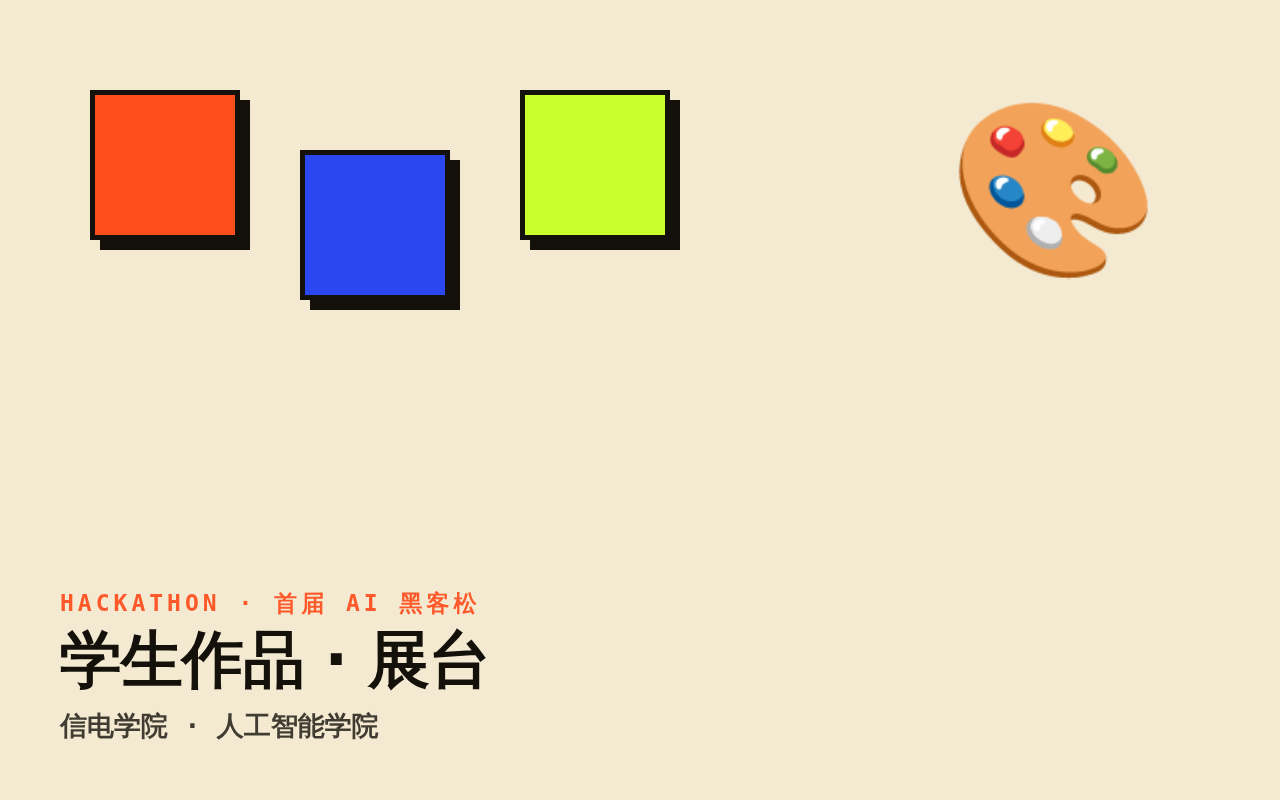
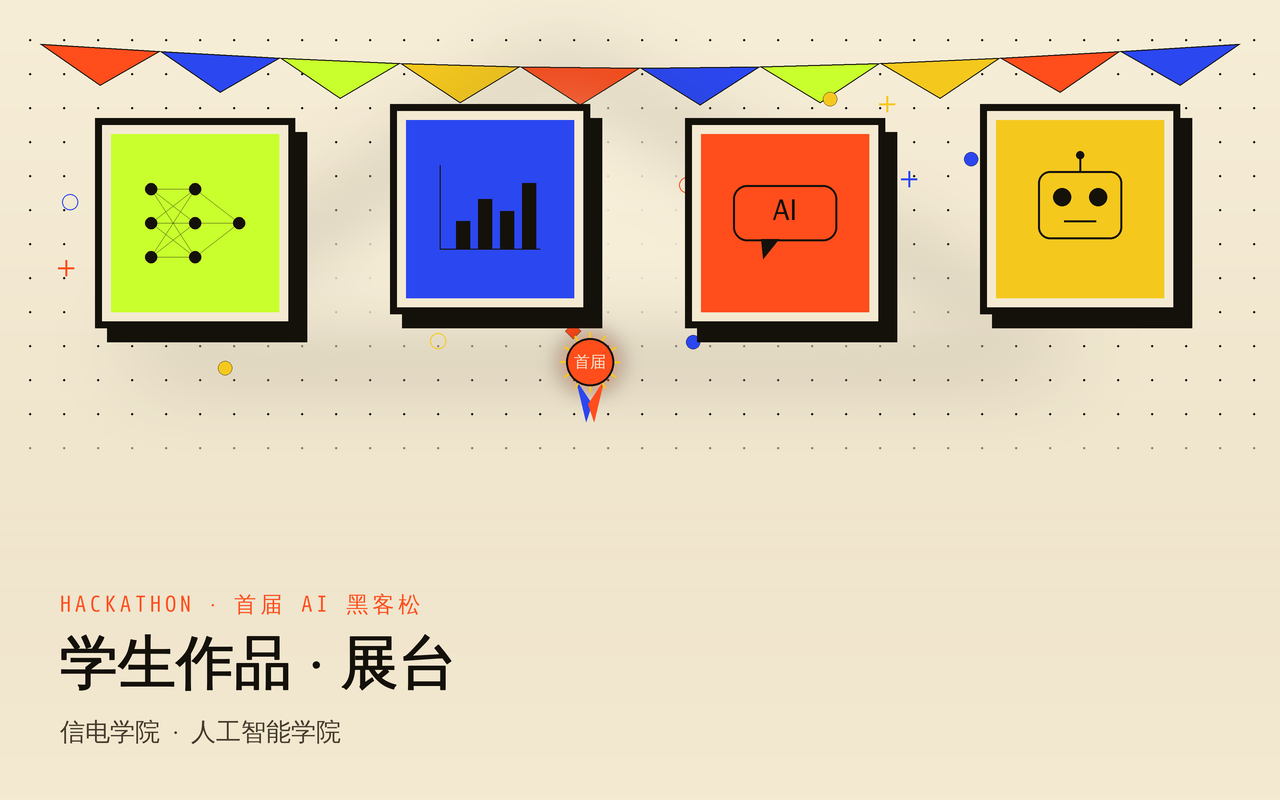
feat(covers): refine hackathon + virtual-house cover art
Extend tools/covers.py with two more detailed vector scenes:
- 黑客松作品展 — neo-brutalist exhibition wall matching the site style:
  bunting, four framed AI exhibits (neural net / chart / chat / robot)
  with hard borders + offset shadows, a 首届 award rosette, memphis
  confetti, spotlight; light paper ground with dark meta text.
- 虚拟看房 — one-point-perspective show-room: sunset window with
  mullions + light shaft, sofa, coffee table on a rug, glowing floor
  lamp, pendant light, wall art, potted plant, perspective floorboards.

meta() gains a title_shadow opt so light-ground covers skip the dark blur.

Claude-Session: https://claude.ai/code/session_01Vqdax58ZXuy3TTjSUvNNA6

Changed region(s): [[0.0312, 0.0312, 0.9688, 0.5312], [0.0312, 0.7188, 0.375, 0.9375]]

diff --git a/tools/covers.py b/tools/covers.py
@@ -93,7 +93,7 @@ def text_track(d, x, y, s, fnt, fill, track=0):
         x += d.textlength(ch, font=fnt) + track * S
     return x
 
-def meta(img, tag, tag_color, title, meter_segs, title_color=(247, 245, 240)):
+def meta(img, tag, tag_color, title, meter_segs, title_color=(247, 245, 240), title_shadow=(0, 0, 0, 165)):
     tagf, titf, mtrf = F(22, mono=True), F(58), F(25, mono=True)
     a1, d1 = titf.getmetrics(); tit_h = a1 + d1
     tag_h = sum(tagf.getmetrics())
@@ -106,11 +106,12 @@ def meta(img, tag, tag_color, title, meter_segs, title_color=(247, 245, 240)):
     text_track(d, x0, y0, tag, tagf, tag_color, track=4)
 
     ty = y0 + tag_h + 8 * S
-    sh = layer()
-    ImageDraw.Draw(sh).text((x0 + 2 * S, ty + 4 * S), title, font=titf,
-                            fill=(0, 0, 0, 165), stroke_width=int(1.1 * S),
-                            stroke_fill=(0, 0, 0, 165))
-    img.alpha_composite(sh.filter(ImageFilter.GaussianBlur(7 * S)))
+    if title_shadow:
+        sh = layer()
+        ImageDraw.Draw(sh).text((x0 + 2 * S, ty + 4 * S), title, font=titf,
+                                fill=title_shadow, stroke_width=int(1.1 * S),
+                                stroke_fill=title_shadow)
+        img.alpha_composite(sh.filter(ImageFilter.GaussianBlur(7 * S)))
     ImageDraw.Draw(img).text((x0, ty), title, font=titf, fill=title_color,
                              stroke_width=max(1, int(0.9 * S)), stroke_fill=title_color)
 
@@ -466,7 +467,225 @@ def build_solar():
          [("行星漫游 · 真实星历 · 语音解说", grey)])
     finish(img, "solar")
 
+# ================================================================ HACKATHON
+def build_hackathon():
+    ink = (20, 17, 11)
+    red, blue, lime, yellow = (255, 77, 28), (43, 71, 240), (200, 255, 45), (245, 200, 30)
+    paper = (244, 234, 210)
+    img = vgrad([(0, (247, 238, 216)), (1, (235, 223, 197))])
+    d = ImageDraw.Draw(img)
+
+    # faint halftone dots
+    for yy in range(40, 470, 34):
+        for xx in range(30, 1260, 34):
+            d.ellipse([sx(xx) - S, sx(yy) - S, sx(xx) + S, sx(yy) + S], fill=(20, 17, 11, 13))
+
+    # bunting flags across the top
+    flagcols = [red, blue, lime, yellow, red, blue, lime, yellow, red, blue]
+    n = len(flagcols)
+    pts = [(40 + i * (1200 / n), 44 + 24 * math.sin(i / n * math.pi)) for i in range(n + 1)]
+    for i in range(n):
+        d.line([(sx(pts[i][0]), sx(pts[i][1])), (sx(pts[i + 1][0]), sx(pts[i + 1][1]))], fill=ink, width=max(1, S))
+    for i in range(n):
+        (x0p, y0p), (x1p, y1p) = pts[i], pts[i + 1]
+        mx, my = (x0p + x1p) / 2, (y0p + y1p) / 2
+        tri = [(x0p, y0p), (x1p, y1p), (mx, my + 38)]
+        d.polygon([(sx(a), sx(b)) for a, b in tri], fill=flagcols[i])
+        d.polygon([(sx(a), sx(b)) for a, b in tri], outline=ink, width=max(1, S))
+
+    # soft spotlight cone over the exhibits
+    spot = layer()
+    ImageDraw.Draw(spot).polygon([(sx(560), sx(60)), (sx(120), sx(360)), (sx(1080), sx(360))], fill=(255, 250, 230, 70))
+    img.alpha_composite(spot.filter(ImageFilter.GaussianBlur(40 * S)))
+
+    # scattered memphis confetti (behind the frames)
+    cf = random.Random(5)
+    for _ in range(30):
+        x, y = cf.randint(60, 1200), cf.randint(95, 380)
+        col = cf.choice([red, blue, lime, yellow])
+        k = cf.choice(["dot", "ring", "plus", "tri", "diamond"])
+        if k == "dot":
+            d.ellipse([sx(x) - sx(7), sx(y) - sx(7), sx(x) + sx(7), sx(y) + sx(7)], fill=col, outline=ink, width=max(1, S // 2))
+        elif k == "ring":
+            d.ellipse([sx(x) - sx(8), sx(y) - sx(8), sx(x) + sx(8), sx(y) + sx(8)], outline=col, width=max(1, S))
+        elif k == "plus":
+            d.line([(sx(x - 8), sx(y)), (sx(x + 8), sx(y))], fill=col, width=max(1, 2 * S))
+            d.line([(sx(x), sx(y - 8)), (sx(x), sx(y + 8))], fill=col, width=max(1, 2 * S))
+        elif k == "tri":
+            d.polygon([(sx(x), sx(y - 8)), (sx(x - 8), sx(y + 7)), (sx(x + 8), sx(y + 7))], outline=col, width=max(1, S))
+        else:
+            d.polygon([(sx(x), sx(y - 8)), (sx(x + 8), sx(y)), (sx(x), sx(y + 8)), (sx(x - 8), sx(y))], fill=col, outline=ink, width=max(1, S // 2))
+
+    # framed AI exhibits — neo-brutalist hard border + offset shadow
+    def frame(x, y, w, h, mat, icon):
+        d.rectangle([sx(x + 12), sx(y + 14), sx(x + w + 12), sx(y + h + 14)], fill=ink)            # hard shadow
+        d.rectangle([sx(x), sx(y), sx(x + w), sx(y + h)], fill=paper)
+        d.rectangle([sx(x), sx(y), sx(x + w), sx(y + h)], outline=ink, width=sx(7))
+        ins = 16
+        d.rectangle([sx(x + ins), sx(y + ins), sx(x + w - ins), sx(y + h - ins)], fill=mat)
+        icon(x + w / 2, y + h / 2)
+
+    def ic_net(cx, cy):
+        xs, ys3, ys2 = [cx - 44, cx, cx + 44], [cy - 34, cy, cy + 34], [cy]
+        layers = [[(xs[0], v) for v in ys3], [(xs[1], v) for v in ys3], [(xs[2], v) for v in ys2]]
+        for a in layers[0]:
+            for b in layers[1]:
+                d.line([(sx(a[0]), sx(a[1])), (sx(b[0]), sx(b[1]))], fill=ink, width=max(1, S // 2))
+        for b in layers[1]:
+            d.line([(sx(b[0]), sx(b[1])), (sx(layers[2][0][0]), sx(layers[2][0][1]))], fill=ink, width=max(1, S // 2))
+        for col in layers:
+            for (px, py) in col:
+                d.ellipse([sx(px) - sx(6), sx(py) - sx(6), sx(px) + sx(6), sx(py) + sx(6)], fill=ink)
+
+    def ic_chart(cx, cy):
+        bx, by = cx - 50, cy + 40
+        d.line([(sx(bx), sx(cy - 44)), (sx(bx), sx(by)), (sx(bx + 100), sx(by))], fill=ink, width=max(1, S))
+        for i, hh in enumerate([28, 50, 38, 66]):
+            x = bx + 16 + i * 22
+            d.rectangle([sx(x), sx(by - hh), sx(x + 14), sx(by)], fill=ink)
+
+    def ic_chat(cx, cy):
+        d.rounded_rectangle([sx(cx - 52), sx(cy - 38), sx(cx + 52), sx(cy + 18)], radius=sx(14), outline=ink, width=max(1, 2 * S))
+        d.polygon([(sx(cx - 24), sx(cy + 16)), (sx(cx - 6), sx(cy + 16)), (sx(cx - 22), sx(cy + 36))], fill=ink)
+        d.text((sx(cx), sx(cy - 32)), "AI", font=F(30), fill=ink, anchor="ma")
+
+    def ic_robot(cx, cy):
+        d.line([(sx(cx), sx(cy - 54)), (sx(cx), sx(cy - 38))], fill=ink, width=max(1, 2 * S))
+        d.ellipse([sx(cx) - sx(4), sx(cy - 58), sx(cx) + sx(4), sx(cy - 50)], fill=ink)
+        d.rounded_rectangle([sx(cx - 42), sx(cy - 38), sx(cx + 42), sx(cy + 30)], radius=sx(12), outline=ink, width=max(1, 2 * S))
+        for ex in (-18, 18):
+            d.ellipse([sx(cx + ex) - sx(9), sx(cy - 12) - sx(9), sx(cx + ex) + sx(9), sx(cy - 12) + sx(9)], fill=ink)
+        d.line([(sx(cx - 16), sx(cy + 12)), (sx(cx + 16), sx(cy + 12))], fill=ink, width=max(1, 2 * S))
+
+    for fx in [(95, 118, 200, 210, lime, ic_net), (390, 104, 200, 210, blue, ic_chart),
+               (685, 118, 200, 210, red, ic_chat), (980, 104, 200, 210, yellow, ic_robot)]:
+        frame(*fx)
+
+    # "首届" rosette medal
+    mx, my = 590, 362
+    glow(img, lambda dd: dd.ellipse([sx(mx) - sx(30), sx(my) - sx(30), sx(mx) + sx(30), sx(my) + sx(30)], fill=(255, 77, 28, 110)), blur=10)
+    d.polygon([(sx(mx - 14), sx(my + 18)), (sx(mx - 4), sx(my + 60)), (sx(mx + 2), sx(my + 42))], fill=blue)
+    d.polygon([(sx(mx + 14), sx(my + 18)), (sx(mx + 4), sx(my + 60)), (sx(mx - 2), sx(my + 42))], fill=red)
+    for ang in range(0, 360, 30):
+        rx, ry = mx + 30 * math.cos(math.radians(ang)), my + 30 * math.sin(math.radians(ang))
+        d.line([(sx(mx), sx(my)), (sx(rx), sx(ry))], fill=yellow, width=max(1, 2 * S))
+    d.ellipse([sx(mx) - sx(24), sx(my) - sx(24), sx(mx) + sx(24), sx(my) + sx(24)], fill=red, outline=ink, width=max(1, 2 * S))
+    d.text((sx(mx), sx(my)), "首届", font=F(16), fill=paper, anchor="mm")
+
+    scrim(img, color=paper, start=0.52, strength=0.96)
+    meta(img, "HACKATHON · 首届 AI 黑客松", red, "学生作品 · 展台",
+         [("信电学院 · 人工智能学院", (70, 60, 45))], title_color=ink, title_shadow=None)
+    finish(img, "hackathon")
+
+# ================================================================ VIRTUAL HOUSE
+def build_virtual_house():
+    img = vgrad([(0, (60, 46, 34)), (1, (32, 24, 18))])
+    d = ImageDraw.Draw(img)
+    VP = (560, 346)
+    BL, BR, TL, TR = (358, 452), (812, 452), (358, 206), (812, 206)
+
+    d.polygon([(sx(0), sx(800)), (sx(1280), sx(800)), (sx(BR[0]), sx(BR[1])), (sx(BL[0]), sx(BL[1]))], fill=(122, 88, 56))   # floor
+    d.polygon([(sx(0), sx(0)), (sx(1280), sx(0)), (sx(TR[0]), sx(TR[1])), (sx(TL[0]), sx(TL[1]))], fill=(92, 75, 60))        # ceiling
+    d.polygon([(sx(0), sx(0)), (sx(TL[0]), sx(TL[1])), (sx(BL[0]), sx(BL[1])), (sx(0), sx(800))], fill=(118, 93, 71))        # left wall
+    d.polygon([(sx(1280), sx(0)), (sx(TR[0]), sx(TR[1])), (sx(BR[0]), sx(BR[1])), (sx(1280), sx(800))], fill=(168, 134, 100))  # right wall
+    d.rectangle([sx(TL[0]), sx(TL[1]), sx(BR[0]), sx(BR[1])], fill=(150, 120, 92))                                          # back wall
+
+    for fx in range(-7, 8):                                # floorboard seams converge to VP
+        d.line([(sx(560 + fx * 95), sx(800)), (sx(VP[0]), sx(VP[1]))], fill=(86, 60, 38, 130), width=max(1, S))
+    for i in range(1, 7):
+        t = (i / 7) ** 1.7; y = 452 + (800 - 452) * t
+        d.line([(0, sx(y)), (WS, sx(y))], fill=(86, 60, 38, int(95 * (1 - t) + 18)), width=max(1, S))
+
+    # sunset window on the back wall
+    wx0, wy0, wx1, wy1 = 600, 236, 792, 430
+    win = Image.new("RGB", (sx(wx1 - wx0), sx(wy1 - wy0)))
+    wd = ImageDraw.Draw(win)
+    for yy in range(win.height):
+        t = yy / win.height
+        if t < 0.62:
+            c = tuple(int(a + (b - a) * (t / 0.62)) for a, b in zip((255, 222, 150), (255, 168, 96)))
+        else:
+            c = tuple(int(a + (b - a) * ((t - 0.62) / 0.38)) for a, b in zip((255, 168, 96), (150, 92, 110)))
+        wd.line([(0, yy), (win.width, yy)], fill=c)
+    img.paste(win, (sx(wx0), sx(wy0)))
+    glow(img, lambda dd: dd.ellipse([sx(696) - sx(30), sx(356) - sx(30), sx(696) + sx(30), sx(356) + sx(30)], fill=(255, 246, 214, 235)), blur=16)
+    d.ellipse([sx(696) - sx(20), sx(356) - sx(20), sx(696) + sx(20), sx(356) + sx(20)], fill=(255, 250, 224))
+    d.rectangle([sx(wx0), sx(wy0), sx(wx1), sx(wy1)], outline=(46, 34, 24), width=sx(8))
+    d.line([(sx((wx0 + wx1) / 2), sx(wy0)), (sx((wx0 + wx1) / 2), sx(wy1))], fill=(46, 34, 24), width=sx(5))
+    d.line([(sx(wx0), sx((wy0 + wy1) / 2)), (sx(wx1), sx((wy0 + wy1) / 2))], fill=(46, 34, 24), width=sx(5))
+    shaft = layer()
+    ImageDraw.Draw(shaft).polygon([(sx(wx0), sx(452)), (sx(wx1), sx(452)), (sx(wx1 - 150), sx(720)), (sx(wx0 - 360), sx(720))], fill=(255, 206, 124, 70))
+    img.alpha_composite(shaft.filter(ImageFilter.GaussianBlur(16 * S)))
+
+    def floor_shadow(cx, cy, rw, rh):
+        sl = layer()
+        ImageDraw.Draw(sl).ellipse([sx(cx - rw), sx(cy - rh), sx(cx + rw), sx(cy + rh)], fill=(0, 0, 0, 115))
+        img.alpha_composite(sl.filter(ImageFilter.GaussianBlur(9 * S)))
+
+    # wall art on the left wall (perspective)
+    d.polygon([(sx(150), sx(298)), (sx(248), sx(284)), (sx(248), sx(398)), (sx(150), sx(420))], fill=(60, 46, 36))
+    d.polygon([(sx(162), sx(308)), (sx(238), sx(296)), (sx(238), sx(388)), (sx(162), sx(406))], fill=(150, 170, 175))
+    d.polygon([(sx(162), sx(372)), (sx(238), sx(360)), (sx(238), sx(388)), (sx(162), sx(406))], fill=(96, 126, 120))
+
+    # pendant light
+    d.line([(sx(470), sx(0)), (sx(470), sx(150))], fill=(40, 30, 22), width=max(1, S))
+    d.polygon([(sx(452), sx(150)), (sx(488), sx(150)), (sx(480), sx(178)), (sx(460), sx(178))], fill=(54, 42, 32))
+    glow(img, lambda dd: dd.ellipse([sx(470) - sx(20), sx(182) - sx(20), sx(470) + sx(20), sx(182) + sx(20)], fill=(255, 226, 150, 200)), blur=14)
+
+    # rug
+    rug = layer(); dru = ImageDraw.Draw(rug)
+    dru.polygon([(sx(372), sx(636)), (sx(742), sx(636)), (sx(828), sx(764)), (sx(286), sx(764))], fill=(176, 120, 96, 225))
+    dru.polygon([(sx(404), sx(652)), (sx(712), sx(652)), (sx(774), sx(748)), (sx(342), sx(748))], outline=(214, 166, 134, 230), width=max(1, 2 * S))
+    img.alpha_composite(rug)
+
+    # sofa (cool tone to pop against the warm room)
+    floor_shadow(520, 612, 190, 30)
+    sofa, sofa_d, sofa_l = (98, 122, 136), (74, 94, 106), (124, 148, 160)
+    d.rectangle([sx(392), sx(498), sx(648), sx(548)], fill=sofa_d)                       # backrest
+    d.rectangle([sx(392), sx(498), sx(648), sx(512)], fill=sofa_l)
+    d.rectangle([sx(384), sx(508), sx(420), sx(602)], fill=sofa)                         # left arm
+    d.rectangle([sx(620), sx(508), sx(656), sx(602)], fill=sofa)                         # right arm
+    d.rectangle([sx(384), sx(508), sx(398), sx(602)], fill=sofa_l)
+    d.rectangle([sx(414), sx(540), sx(626), sx(596)], fill=sofa)                         # seat
+    for cxs in (446, 520, 594):                                                         # cushions
+        d.line([(sx(cxs), sx(542)), (sx(cxs), sx(594))], fill=sofa_d, width=max(1, S))
+        d.rectangle([sx(cxs - 34), sx(516), sx(cxs + 34), sx(548)], fill=sofa_l, outline=sofa_d, width=max(1, S))
+
+    # coffee table on the rug
+    floor_shadow(556, 712, 130, 24)
+    d.polygon([(sx(486), sx(686)), (sx(636), sx(686)), (sx(668), sx(712)), (sx(454), sx(712))], fill=(150, 100, 64))
+    d.polygon([(sx(454), sx(712)), (sx(668), sx(712)), (sx(668), sx(720)), (sx(454), sx(720))], fill=(108, 72, 46))
+    for lx in (470, 652):
+        d.rectangle([sx(lx), sx(712), sx(lx + 10), sx(744)], fill=(96, 64, 40))
+
+    # floor lamp (right)
+    glow(img, lambda dd: dd.ellipse([sx(892) - sx(40), sx(494) - sx(40), sx(892) + sx(40), sx(494) + sx(40)], fill=(255, 224, 150, 150)), blur=22)
+    d.rectangle([sx(888), sx(500), sx(896), sx(706)], fill=(50, 38, 28))
+    d.ellipse([sx(860), sx(700), sx(924), sx(716)], fill=(40, 30, 22))
+    d.polygon([(sx(866), sx(500)), (sx(918), sx(500)), (sx(906), sx(456)), (sx(878), sx(456))], fill=(255, 226, 158))
+
+    # potted plant (left foreground)
+    floor_shadow(196, 742, 60, 18)
+    d.polygon([(sx(168), sx(700)), (sx(224), sx(700)), (sx(214), sx(748)), (sx(178), sx(748))], fill=(170, 96, 64))
+    d.polygon([(sx(168), sx(700)), (sx(224), sx(700)), (sx(220), sx(712)), (sx(172), sx(712))], fill=(196, 120, 84))
+    for lx, ly, lw, lh, cc in [(196, 660, 16, 56, (70, 120, 70)), (174, 672, 14, 44, (88, 140, 84)),
+                               (218, 672, 14, 44, (88, 140, 84)), (196, 642, 13, 40, (104, 158, 96))]:
+        d.ellipse([sx(lx - lw), sx(ly - lh), sx(lx + lw), sx(ly + lh)], fill=cc)
+
+    # warm ambience
+    amb = layer()
+    ImageDraw.Draw(amb).ellipse([sx(696 - 360), sx(356 - 280), sx(696 + 360), sx(356 + 280)], fill=(255, 190, 110, 46))
+    img.alpha_composite(amb.filter(ImageFilter.GaussianBlur(90 * S)))
+
+    scrim(img, color=(28, 18, 12), start=0.5, strength=0.9)
+    vignette(img, strength=0.5, inner=0.62)
+    meta(img, "VIRTUAL HOUSE · 虚拟看房", (255, 228, 184), "样板间 · 沉浸式漫游",
+         [("两室一厅 · 灯光 / 家具 / 装修 ", (225, 214, 198)), ("自由调", (255, 210, 140))])
+    finish(img, "virtual-house")
+
 if __name__ == "__main__":
     build_port()
     build_airport()
     build_solar()
+    build_hackathon()
+    build_virtual_house()
